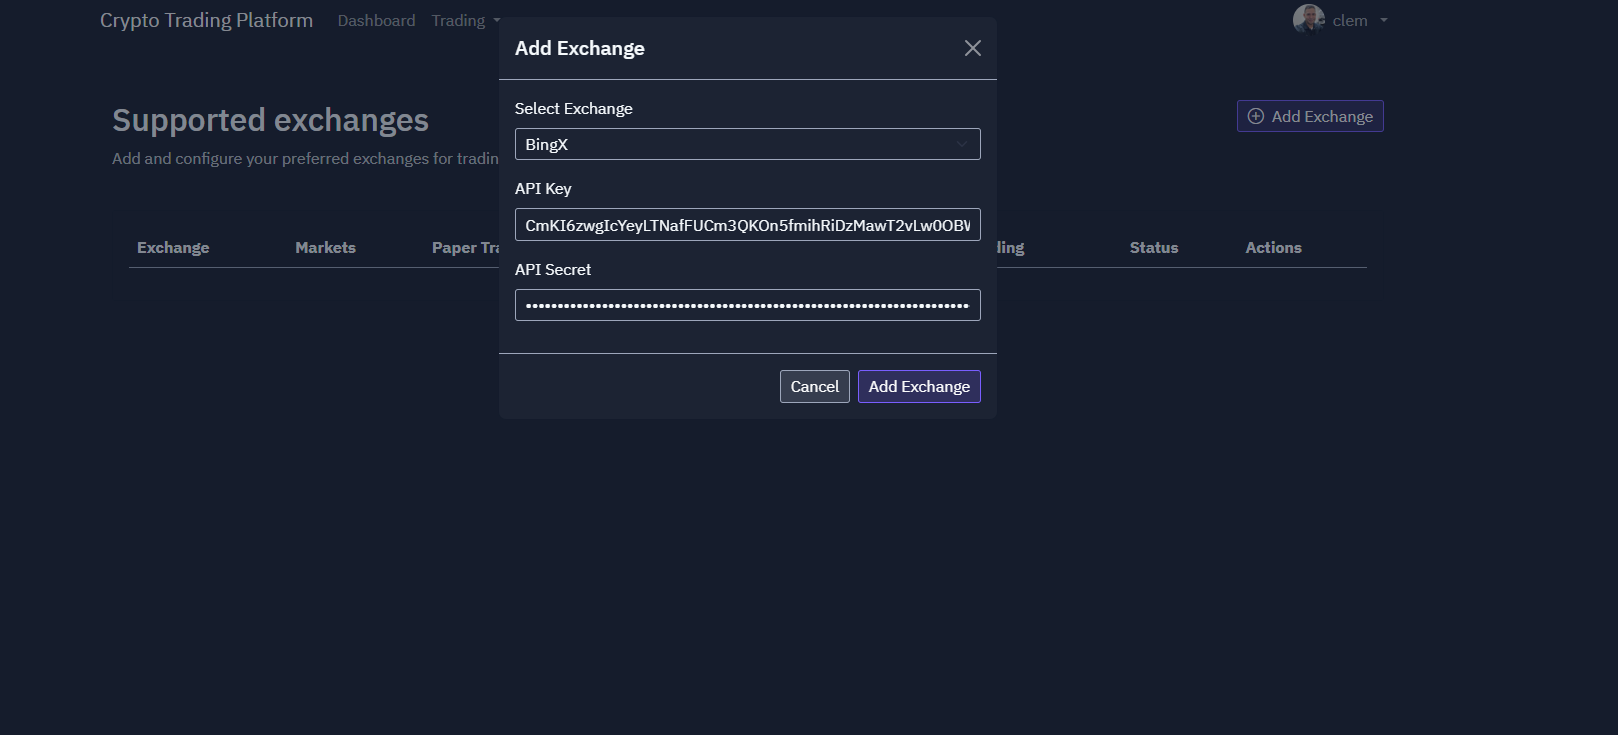
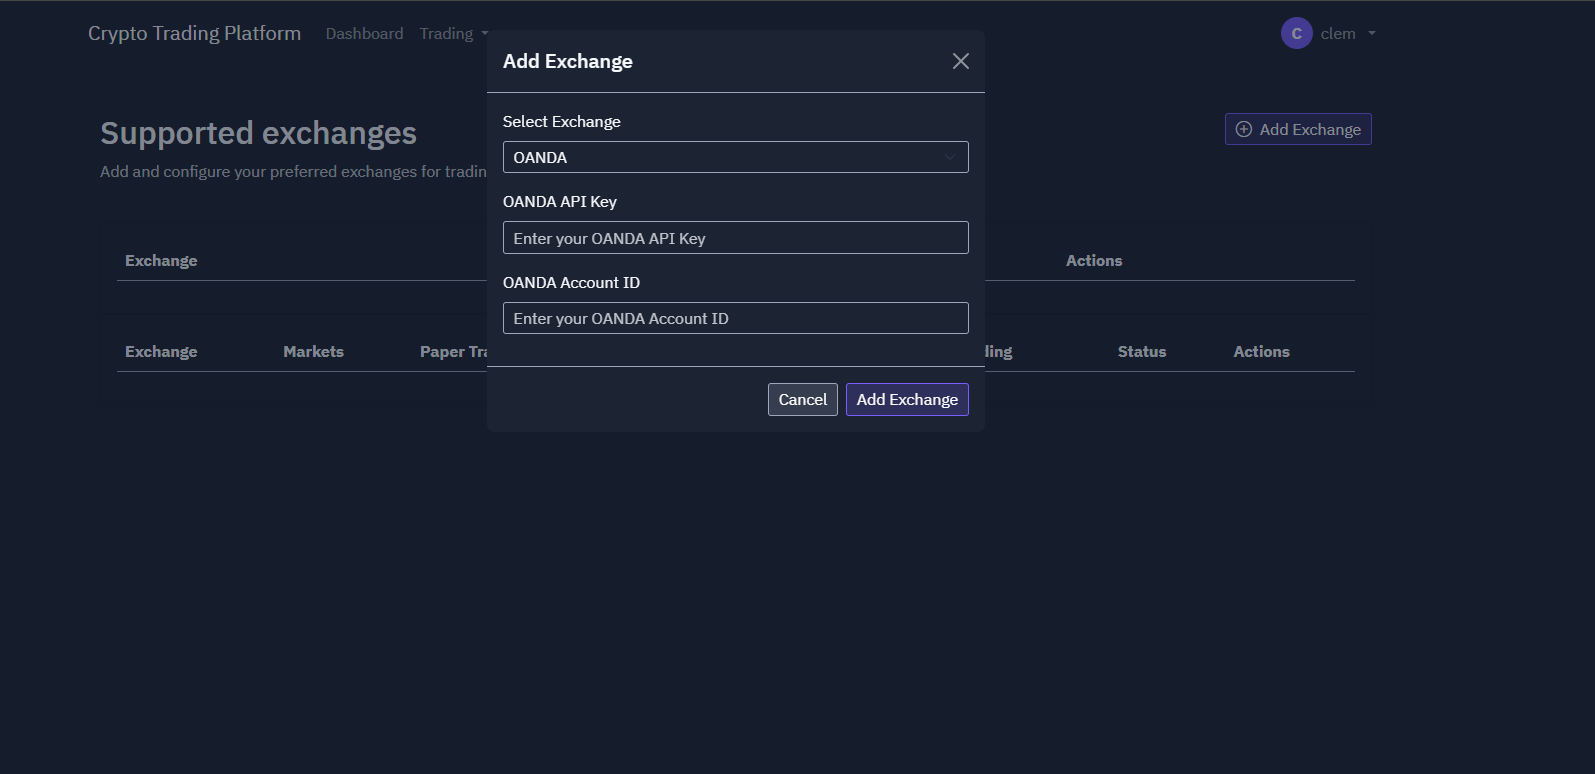
Agent query: ¿Puedes ver la opción de OANDA en la página de exchanges y puedes seleccionarla al crear un nuevo bot?
Add OANDA forex integration to the Crypto Trading Platform.

Screenshot: https://storage.googleapis.com/screenshot-production-us-central1/e9dd3937-21b8-446a-bd67-a1e5fcb2e183/670b720c-22a2-494f-9e9d-b1de7c728b0c.jpg

diff --git a/app/templates/admin/dashboard.html b/app/templates/admin/dashboard.html
@@ -143,6 +143,7 @@
                             <option value="">Select Exchange</option>
                             <option value="binance">Binance</option>
                             <option value="bingx">BingX</option>
+                            <option value="oanda">OANDA (Forex)</option>
                         </select>
                     </div>
                     <div class="mb-3">

diff --git a/app/integrations/forex/oanda_client.py b/app/integrations/forex/oanda_client.py
@@ -1,0 +1,69 @@
+import logging
+from oandapyV20 import API
+from oandapyV20.exceptions import V20Error
+from flask import current_app
+
+logger = logging.getLogger(__name__)
+
+class OandaClient:
+    _instance = None
+    
+    @classmethod
+    def get_instance(cls):
+        if cls._instance is None:
+            cls._instance = cls()
+        return cls._instance
+
+    def __init__(self):
+        self._client = None
+        self._account_id = None
+
+    def init_client(self, api_key, account_id):
+        """Initialize OANDA client with API credentials"""
+        try:
+            self._client = API(access_token=api_key)
+            self._account_id = account_id
+            
+            # Test connection by getting account details
+            self._client.request(f"v3/accounts/{account_id}")
+            logger.info("OANDA client initialized successfully")
+            return True
+        except V20Error as e:
+            logger.error(f"Error initializing OANDA client: {str(e)}")
+            return False
+        except Exception as e:
+            logger.error(f"Unexpected error initializing OANDA client: {str(e)}")
+            return False
+
+    def get_client(self):
+        return self._client
+
+    def get_account_id(self):
+        return self._account_id
+
+    def get_price(self, instrument):
+        """Get current price for an instrument"""
+        try:
+            params = {"instruments": instrument}
+            response = self._client.request("v3/instruments/{}/candles".format(instrument))
+            if response and "candles" in response:
+                return float(response["candles"][-1]["mid"]["c"])
+            return None
+        except V20Error as e:
+            logger.error(f"Error getting price for {instrument}: {str(e)}")
+            return None
+
+def init_oanda(app):
+    """Initialize OANDA client with app configuration."""
+    api_key = app.config.get('OANDA_API_KEY')
+    account_id = app.config.get('OANDA_ACCOUNT_ID')
+    
+    if not all([api_key, account_id]):
+        logger.warning("OANDA API credentials not configured")
+        return
+    
+    client = OandaClient.get_instance()
+    if client.init_client(api_key, account_id):
+        logger.info("OANDA integration initialized successfully")
+    else:
+        logger.error("Failed to initialize OANDA integration")

diff --git a/app/__init__.py b/app/__init__.py
@@ -47,6 +47,15 @@ def create_app():
     migrate = Migrate(app, db)
     login_manager.init_app(app)
     login_manager.login_view = 'auth.login'
+
+    # Initialize exchange integrations
+    from app.integrations.crypto.binance_client import init_binance
+    from app.integrations.crypto.bingx_client import init_bingx
+    from app.integrations.forex.oanda_client import init_oanda
+    
+    init_binance(app)
+    init_bingx(app)
+    init_oanda(app)
     
     # Initialize mail
     from app.mail import init_app as init_mail

diff --git a/app/models/exchange.py b/app/models/exchange.py
@@ -8,6 +8,7 @@ class Exchange(db.Model):
     id = db.Column(db.Integer, primary_key=True)
     name = db.Column(db.String(50), nullable=False)
     exchange_type = db.Column(db.String(20), nullable=False)  # 'binance', 'bingx', 'oanda'
+    is_forex = db.Column(db.Boolean, default=False)  # Para distinguir exchanges forex
     api_key = db.Column(db.String(200))
     api_secret_hash = db.Column(db.String(256))
     account_id = db.Column(db.String(100))  # Para OANDA
